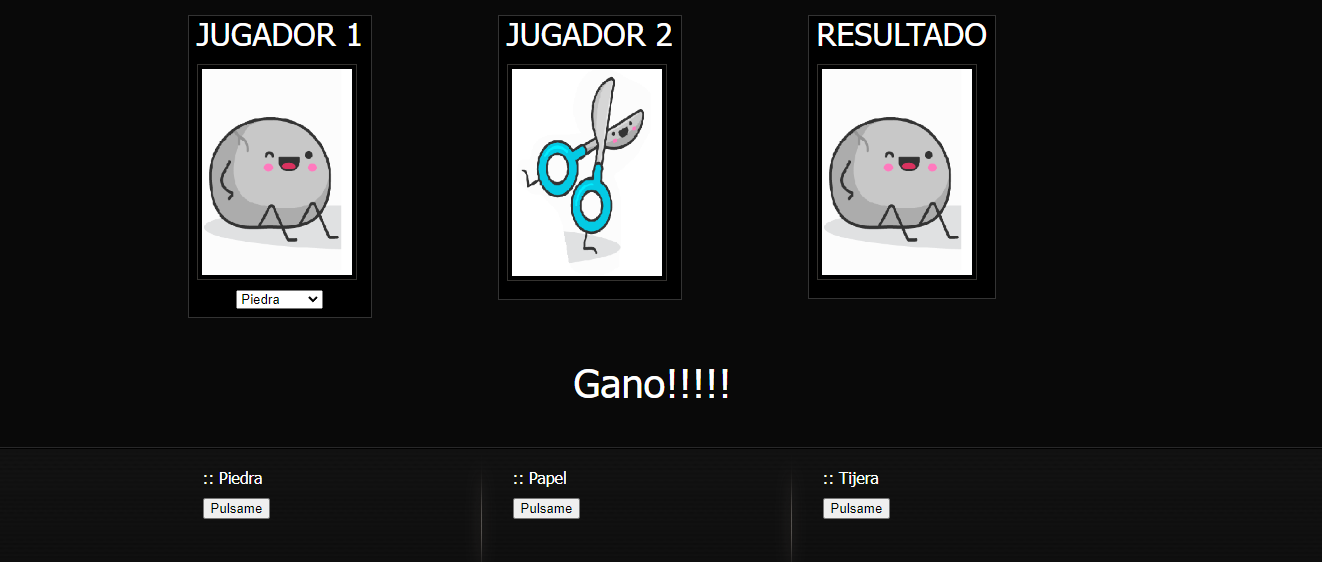
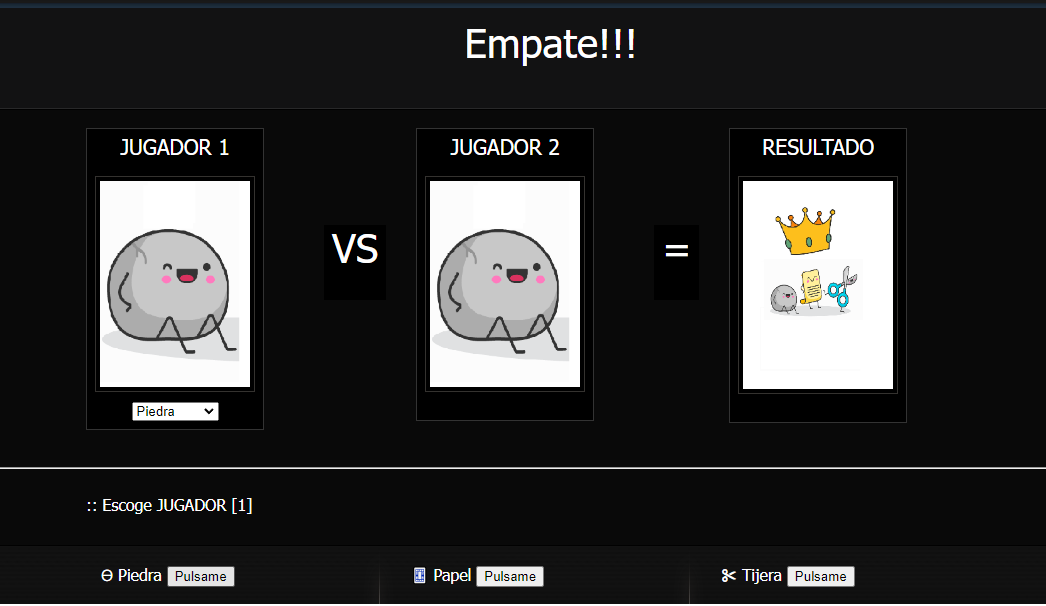
Actualizar imagenes representativas

diff --git a/index.html b/index.html
@@ -18,9 +18,14 @@
                 
             </div> 
         </div>
-     
-
-   
+       
+        <div id="templatemo_content_wrapper">
+            <div id="templatemo_content">
+                <center>
+                <h1 id="myLabel">Inicia Juego</h1>
+               </center>          
+            </div>
+        </div>
    
     <div id="templatemo_footer_wrapper">
         
@@ -30,36 +35,53 @@
             
                 <div class="footer_menu">
                     <div class="image_wrapper fl_img">
-                        <h2>JUGADOR 1</h2>
+                        <center>   <h3>JUGADOR 1</h3></center>
                     <img id="Player1" src="./images/0R.png" alt="Jugador1">
                     <center>
-                    <select id="checkbox1">
-                        <option value="0">Selecionar</option>
-                        <option value="1">Piedra</option>
-                        <option value="2">Papel</option>
-                        <option value="3">Tijera</option>
-                      </select>
-                    </center>
+                       
+                        <select id="checkbox1">
+                            <option value="0">Selecionar</option>
+                            <option value="1">Piedra</option>
+                            <option value="2">Papel</option>
+                            <option value="3">Tijera</option>
+                        </select>
+                   </center>
                 </div>
                 </div>
                 
             </div>
-            
+            <div  class="footer_box">
+                <div class="footer_menu">
+                    <div class="image_wrapper_txt ">
+                        <h1>VS</h1>
+                    </div>
+                </div>  
+              
+            </div>
             <div class="footer_box">
             
                 <div class="footer_menu">
                     <div class="image_wrapper fl_img">
-                        <h2>JUGADOR 2</h2>
+                        <center>  <h3>JUGADOR 2</h3></center>
                     <img id="Player2" src="./images/0R.png" alt="Jugador2">
+                   <center><p></p></center>
                 </div>
                 </div>
             </div>
-        
+            <div  class="footer_box">
+                <div class="footer_menu">
+                    <div class="image_wrapper_txt ">
+                        <h1>=</h1>
+                    </div>
+                </div>  
+              
+            </div>
             <div class="footer_box">
                 <div class="footer_menu">
                     
-                    <div class="image_wrapper fl_img"><h2>RESULTADO</h2>
-                    <img id="Win"  src="./images/3R.png" alt="Jugador2">
+                    <div class="image_wrapper fl_img"><center><h3>RESULTADO</h3></center>
+                    <img id="Win"  src="./images/0R.png" alt="Jugador2">
+                    <center><p></p></center>
                 </div>
                 </div>
         	
@@ -68,40 +90,40 @@
         
         <div class="cleaner"></div>
     </div> <!-- end of footer -->
+    <hr>
+    
     <div id="templatemo_content_wrapper">
         <div id="templatemo_content">
-            <center>
-            <h1 id="myLabel">Inicia Juego</h1>
-           </center>
-          
-    </div>
-    </div>
-    <div id="templatemo_top_row_wrapper">
+            <h5>:: Escoge JUGADOR [1]</h5> 
+        </div>
+         <div id="templatemo_top_row_wrapper">
        
         <div id="templatemo_top_row">
          
             <div class="top_row_box">
-                <h5>:: Piedra </h5>
-           <input type="button"  value="Pulsame" onclick="ejecutaEventoOnclick(1)">
+                <h5> 🜔 Piedra <input type="button"  value="Pulsame" onclick="ejecutaEventoOnclick(1)"></h5>
+           
                
                  
             </div>
             
             <div class="top_row_box">
-                <h5>:: Papel   </h5>
-                <input type="button"  value="Pulsame" onclick="ejecutaEventoOnclick(2)">
+                <h5> 🀆 Papel   <input type="button"  value="Pulsame" onclick="ejecutaEventoOnclick(2)"> </h5>
+               
                         
             </div>
             
             <div class="top_row_box last">
-                <h5>:: Tijera   </h5>
-               <input type="button"  value="Pulsame" onclick="ejecutaEventoOnclick(3)">
+                <h5> ✂ Tijera     <input type="button"  value="Pulsame" onclick="ejecutaEventoOnclick(3)"></h5>
+             
              
             </div>
         
             <div class="cleaner"></div>
         </div> <!-- end of top row -->
     </div> <!-- end of top row wrapper -->
+    </div>
+   
 </div>
 
      <!-- end of content_wrapper -->

diff --git a/index.js b/index.js
@@ -47,7 +47,7 @@ function  game(choice)
 */
 function setImage(id,val){ 
     var x = document.getElementById(id);
-    x.setAttribute("src","./images/"+ val+"R.png");
+    x.setAttribute("src","./images/"+ val);
 } 
 /**
 * Evento click Boton
@@ -55,9 +55,9 @@ function setImage(id,val){
 */
 function ejecutaEventoOnclick(val){ 
     var rta = game(val).split("-");    
-    setImage("Player1",val);
-    setImage("Player2",rta[0]);
-    setImage("Win",rta[1]);
+    (rta[1] == val)?setImage("Player1",val+"G.png"):setImage("Player1",val+"R.png");
+    (rta[1] == rta[0] )?setImage("Player2",rta[0]+"G.png"):setImage("Player2",rta[0]+"R.png");
+    setImage("Win",rta[1]+"W.png");
     document.getElementById('myLabel').innerHTML= rta[2];
     document.getElementById("checkbox1").value = val;
 } 

diff --git a/css/style.css b/css/style.css
@@ -60,6 +60,12 @@ h6 { font-size: 14px; margin: 0 0 5px 0; padding: 0;}
 	background: #000;
 	margin-bottom: 10px;
 }
+.image_wrapper_txt {
+	padding: 8px;
+	
+	background: #000;
+	margin-top: 100px;
+}
 .fl_img {
 	float: left;
 	margin: 3px 30px 15px 0;
@@ -145,7 +151,7 @@ cite span { color: #fff; }
 #templatemo_top_row_wrapper {
 	clear: both;
 	width: 100%;
-	height: 160px;
+	height: 90px;
 	background: url(../images/templatemo_top_row.jpg) repeat-x; 
 	border-bottom: 1px solid #000;
 }
@@ -217,7 +223,7 @@ cite span { color: #fff; }
 
 .footer_box {
 	float: left;
-	width: 280px;
+	/*width: 280px;*/
 	padding: 0 30px 0 0;
 }
 
